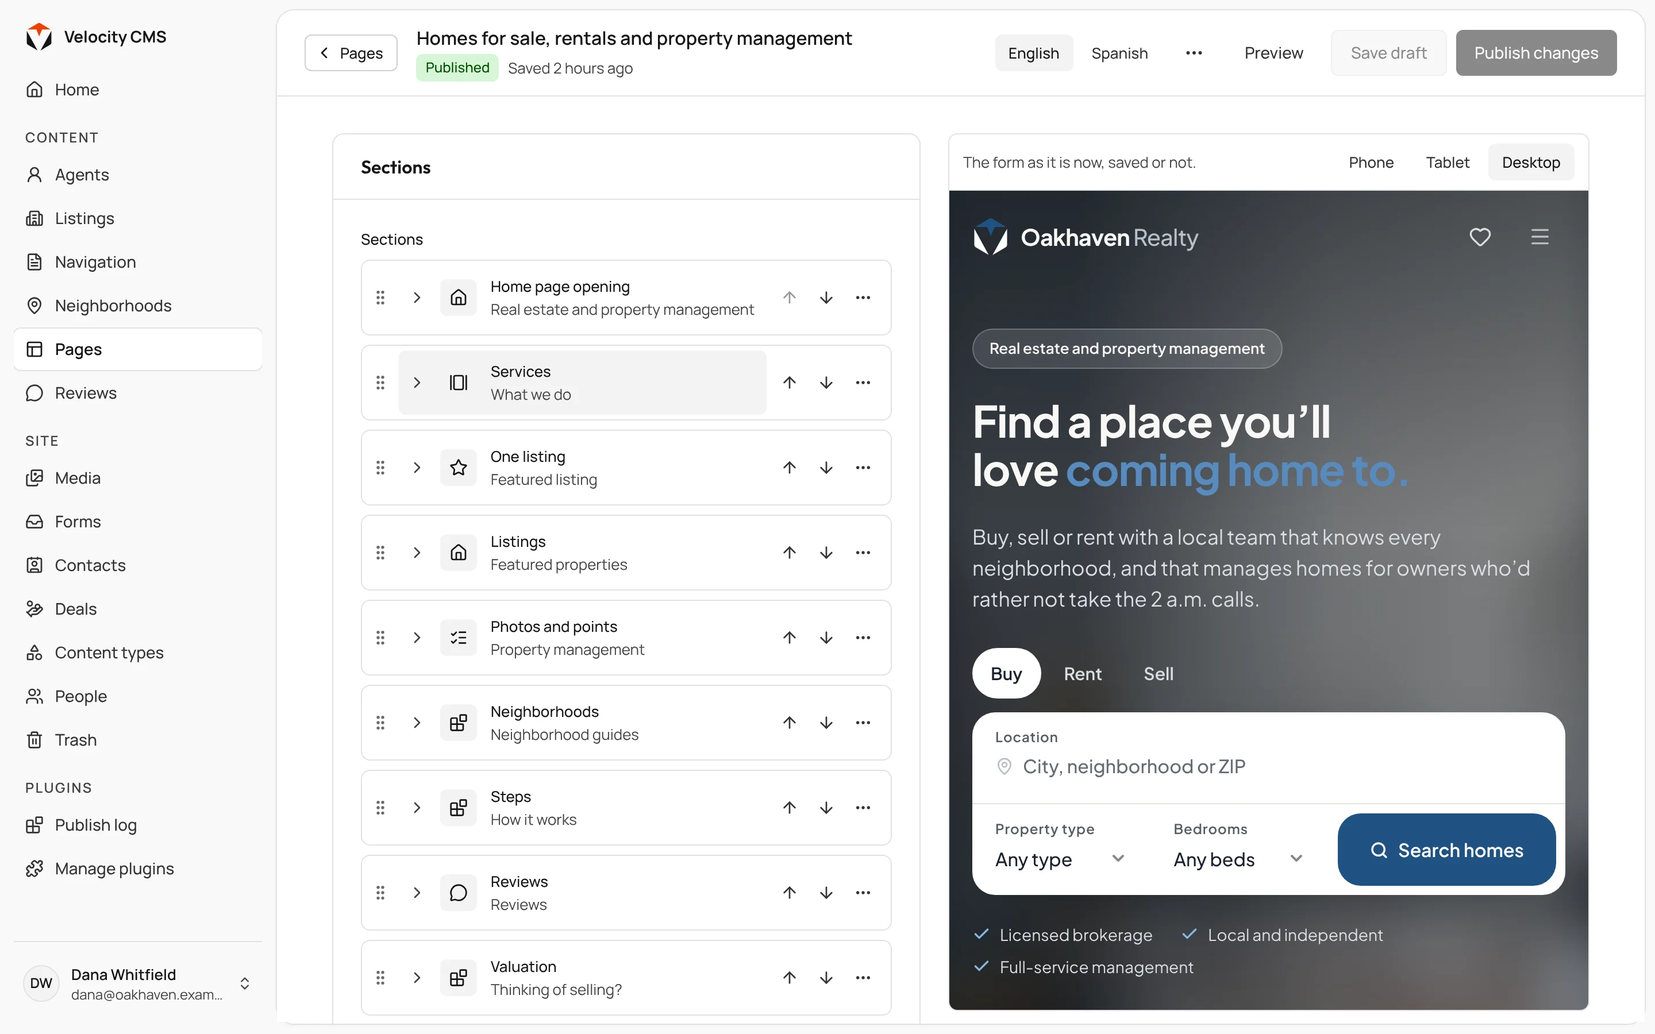
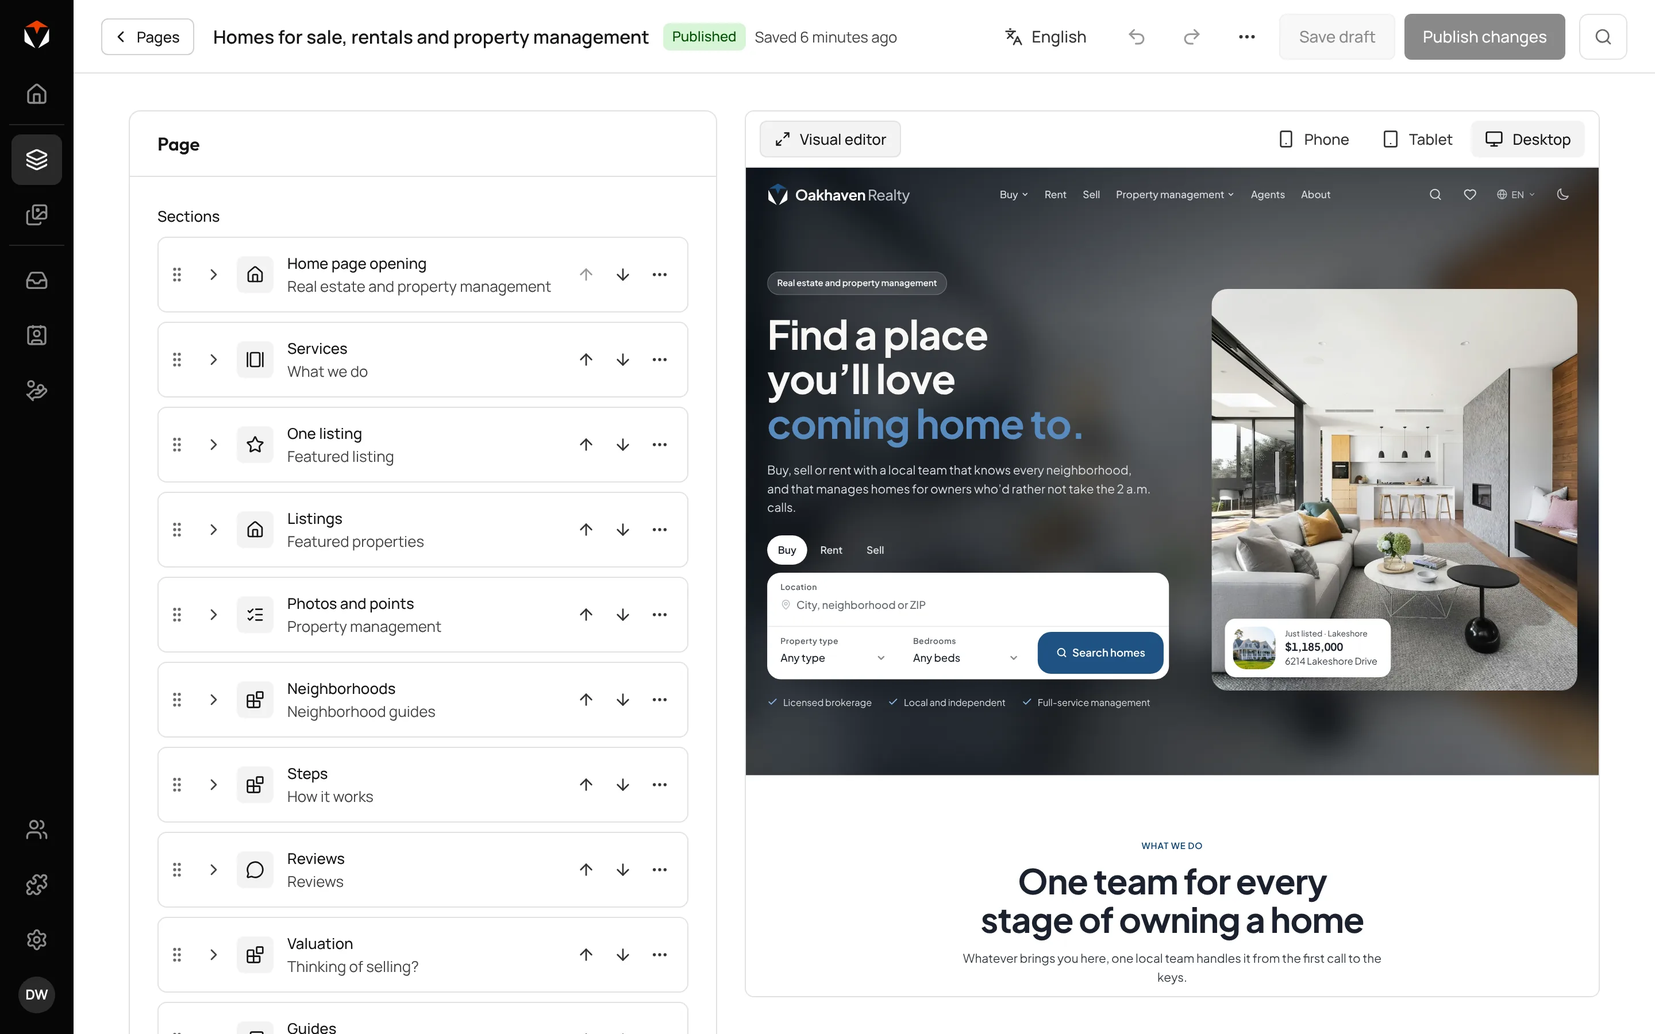
README and AGENTS.md up to date, new screenshots, and the Theme card names fonts (#117)
New README screenshots of today's editor in light and dark, plus Home and the visual editor with the theme. The README says what the visual editor, the theme and the editor do; AGENTS.md names Home's screen, the starter's Theme page, the guide's copy on the docs site, Escape reaching the page and a section opened being brought into view. The Theme card's description names fonts.

Claude-Session: https://claude.ai/code/session_012HxADyL86AXUVxAz2xvfSz

diff --git a/packages/cms-admin/src/messages/en.ts b/packages/cms-admin/src/messages/en.ts
@@ -297,7 +297,7 @@ export const en = {
     chooseFont: 'Choose a font',
     themeHide: 'Hide the theme',
     themeTitle: 'Site theme',
-    themeHelp: (settings: string) => `The colors of the whole site, from the template's own. Try them on this page, then publish them. They are kept in Settings, under ${settings}, and publishing them publishes what is saved there.`,
+    themeHelp: (settings: string) => `The colors and fonts of the whole site, from the template's own. Try them on this page, then publish them. They are kept in Settings, under ${settings}, and publishing them publishes what is saved there.`,
     themePublish: 'Publish theme',
     themeDiscard: 'Discard',
     themePublished: 'Theme published',

diff --git a/AGENTS.md b/AGENTS.md
@@ -61,6 +61,7 @@ TypeScript (strict) · Zod 4 · web-standard `Request`/`Response` · Better Auth
 - `packages/cms-admin/src/screens/Forms`, `screens/Form` — the forms a site has, and one form: what it was sent (`Submissions.tsx`, new first, then handled and spam), its fields (`FormFields.tsx`, drawn by the shared `FieldSetEditor`) and its settings. A form's fields are saved all at once, each with its id, and only kinds a visitor can fill in are offered (`FieldTypeInfo.takesSubmissions`).
 - `packages/cms-admin/src/screens/Contacts`, `screens/Contact` — the people who wrote to the site (a list with a search, adding one by hand), and one contact: details, the timeline of what they sent and the team's notes, export and erase. For owners and editors.
 - `packages/cms-admin/src/screens/Contacts/PipelineBoard.tsx`, `StagesDialog.tsx`, `pipeline.ts` — the contacts as a board by stage (the `Board` pattern: a card is dragged, or moved from its menu), the window the stages are edited in, and how a stage, an owner and a day to follow up are said. `screens/Contact/ContactWork.tsx` sets the three on one contact; `screens/Home/FollowUps.tsx` lists what is due for whoever is signed in.
+- `packages/cms-admin/src/screens/Home` — the first screen: a greeting that says what is waiting (`Welcome`) beside the home page as visitors see it (`SiteWindow`), the bar above it holding only the search; then cards with charts (`BarChart`): how much each kind of content has, submissions a day over two weeks, the inbox and the open deals by stage (`Audience`), recent changes and what is due to follow up (`FollowUps.tsx`).
 - `packages/cms-admin/src/screens/Deals` — every deal as a board by stage with what is open, forecast and won, and the window a deal is added, changed and deleted in (`DealDialog.tsx`). `screens/Contact/ContactDeals.tsx` lists one contact's deals.
 - `packages/cms-admin/src/screens/Deals/deal-subject.tsx`, `screens/EntryEditor/EntryDeals.tsx` — what on the site a deal is about (a kind of content, then one of its entries, by name), and the card on an entry that lists the deals about it.
 - `packages/cms-admin/src/fields/FieldSetEditor.tsx`, `FieldSetDialog.tsx`, `field-set.ts` — a list of simple fields edited as a whole (`FieldSet`): a form's (`screens/Form/FormFields.tsx`) and the custom fields of contacts and deals (`fields/CustomFieldsDialog.tsx`). `fields/custom-values.tsx` fills custom fields in on one contact or deal, with the controls entries use.
@@ -69,7 +70,7 @@ TypeScript (strict) · Zod 4 · web-standard `Request`/`Response` · Better Auth
 - `packages/cms-plugins/` — the plugins that come with the CMS (`catalogue`), each in its own folder. `cms-astro/src/site-plugins.ts` loads them on every site after the site's own, switched off until an owner activates one. `seo/` is the first: `analyse.ts` judges an entry, `plugin.ts` is the server side, `editor.ts` the editor's part. `webhooks/` sends what happens (a form submitted, a contact or a deal changed, a page published) to the addresses an owner lists, signed when a signing secret is saved. `mailchimp/` adds whoever sends a form to a Mailchimp audience: the API key is a secret and the only thing that chooses the host (`mailchimpHost`), someone already in the audience is never updated, and an owner may name the forms and a yes or no field that asks for consent. `slack/` posts to a channel when a form is sent or a contact is made: the webhook address is a secret, only `hooks.slack.com` is posted to (`slackAddress`), and a message names the person only when the owner asks. `hubspot/` copies contacts to HubSpot one way, matched by email, to one fixed address (`HUBSPOT_UPSERT`) with a private app token kept as a secret.
 - `packages/velocity-cms/` — the `npx velocity-cms` command for a site that does not have the CMS yet: `init` installs `@velocity-astro/cms-astro` with the site's package manager, and every command is handed to the CMS the site has. No build and no dependencies.
 - `scripts/version.mjs`, `scripts/next-release.mjs`, `scripts/publish.mjs`, `scripts/github-release.mjs`, `.github/workflows/release-pr.yml`, `release.yml`, `github-release.yml`, `CHANGELOG.md` — a release: every package gets one version and the changelog names it. A change that people who use the CMS would notice adds a line under "Unreleased" in `CHANGELOG.md`; a workflow keeps a pull request, "Release <version>", that files those lines under the next version, and merging it stages that version on npm and makes its GitHub Release. A GitHub Release is written by `scripts/github-release.mjs` (the changelog's section, how to install, the pull requests since the release before; a pre-release when the version has a `-`), and a version tag a person pushes (`v<version>`) gets one by itself (`github-release.yml`); `.github/release.yml` says which pull requests that list leaves out. Run by hand, `release.yml` rehearses unless told to publish. It holds no key: each package on npm trusts this workflow to stage a version, which is public once an owner approves it on npmjs.com.
-- `examples/starter/` — a small site on the CMS that is plain Astro: its model and seed (`cms/`), one component per section, and `npm run check`, which CI runs to prove a site works from an empty database. Keep it small enough to read in one sitting; it is what the README tells people to run.
+- `examples/starter/` — a small site on the CMS that is plain Astro: its model and seed (`cms/`, a Theme page in the settings with a brand color and a headings font that its layout writes as CSS variables), one component per section, and `npm run check`, which CI runs to prove a site works from an empty database. Keep it small enough to read in one sitting; it is what the README tells people to run.
 - `prototypes/` — phase 0 experiments. Scripts here may be rough; packages may not.
 
 ## Rules
@@ -93,7 +94,7 @@ TypeScript (strict) · Zod 4 · web-standard `Request`/`Response` · Better Auth
 - **Which entry a submission is about is the site's word, never the visitor's.** A page says it with a mark signed for that form (`siteForm(Astro, key, { about })`, `aboutMark`), or the server finds the entry whose own page the post came from (`entryAt`). A form that says `startsDeal` then starts a deal about that entry for the sender (`DealService.started`), when the entry's type takes deals and they have no open deal about it; it is worth nothing until someone says, and a failure there never loses the submission.
 - **A draft sent with a preview is drawn and forgotten.** It is read only from a post by the site's own pages with a valid preview token, shown to the one who sent it, never cached and never stored. Whatever reads an entry for a page passes it through `withPreviewDraft`.
 - **Drafts never leak.** Anything that shows working versions must check `isPreview()`, must not be cached, and must not feed search, the sitemap or share images.
-- **A template's content types are described in code and applied with `schema.define`.** It may run on every deploy: a field keeps its id by key, so content stays, and fields the description leaves out are kept. A type also names the field its entries are called by (`titleField`, by key, which is stored as `titlePath`) and the sections the editor shows (`sections`). How to turn an existing Astro site into one on the CMS, step by step, is `docs/converting-a-template.md`: keep it true when a helper a template uses changes.
+- **A template's content types are described in code and applied with `schema.define`.** It may run on every deploy: a field keeps its id by key, so content stays, and fields the description leaves out are kept. A type also names the field its entries are called by (`titleField`, by key, which is stored as `titlePath`) and the sections the editor shows (`sections`). How to turn an existing Astro site into one on the CMS, step by step, is `docs/converting-a-template.md`, and the docs site has the same text (`southwellmedia/velocity-docs`, `src/content/docs/cms/converting-a-template.mdx`): keep both true when a helper a template uses changes.
 - **Field ids are permanent.** Entry data is keyed by field id, never by key. A rename changes the key only. A removed field is marked `deletedAt` and its data is kept.
 - **A plugin gets the public surface and nothing else.** What `setup` receives is `PluginContext`: add to it deliberately, because every addition is a promise to plugin authors (`PLUGIN_API_VERSION`). A plugin writes through the services as its own actor, with only the permissions it declared, and a failure in one is caught, counted and shown under Plugins; it never stops a save or a publish. A plugin's own addresses live under `/api/cms/plugins/<name>/` and keep every API rule; its settings are fields, drawn by the editor with the controls entries use.
 - **In the editor, a plugin gets what it is handed and nothing else.** Its editor file is one prebuilt module with no React of its own. It adds screens, panels on an entry and field controls through `register`, reaches only its own addresses through `client`, and builds from the parts in `plugin-ui.ts`. Each part and each method there is a promise to plugin authors: add on purpose, never remove within one `PLUGIN_API_VERSION`. Whatever a plugin draws is wrapped in `PluginBoundary`, and a file that fails to load leaves the plugin out and the editor running.
@@ -114,10 +115,10 @@ TypeScript (strict) · Zod 4 · web-standard `Request`/`Response` · Better Auth
 - **The site's theme is fields of its settings, tried beside a page.** The Theme card of the visual editor (`screens/EntryEditor/ThemeCard.tsx`, opened from its menu) shows the looks of every page kept in the settings: the fields whose control says they are swatches or a look (`isLook`: a colour, a font). What is chosen is held by the form and sent with the page's own draft (`PreviewDraft.with`, a few entries at most, read and forgotten like the draft itself), so the page shows it and nothing is saved. Publishing saves and publishes the settings entry as its own screen does, with its revision, and is for those who may publish. Don't keep a theme anywhere but those fields.
 - **A width of the preview is a screen's width, never the pane's.** `PagePreview` draws the page at the width its choice stands for (`pagePreviewWidths`) and, where the pane is narrower, shows it smaller and whole. It tells the page how much smaller (`zoom`), and the bridge draws its own tools that much larger (`grows`, `at`), so a button on the page is the size it always is and is pressed where it is seen. Whatever the bridge adds to its layer goes through `grows`.
 - **The editor fits a phone.** Below `md` the `AppShell` shows a bar with a button that opens the menu in a drawer, and spacing, grids and headers fold by themselves (`scales.ts`): a screen never sets a width for a size of window. The bar is one row on every window, as on any phone: the menu, the screen's title (cut to fit) and its state on the same line, its buttons and the search. A screen's main button `collapses` to its icon there and its other buttons are `PageHeader` `secondary`, one menu on a phone; a screen that leads back (an entry's `SaveBar` with `back`) has the way back in the menu's place and no search. What does not fit a phone goes into the screen's one menu (`useNarrow`), never onto a second row or off the edge. A table marks the columns a phone can do without `isSecondary`. Check a change at 390 pixels wide, not only on a desktop.
-- **A page drawn again is where it was.** The page beside the form is asked for anew with every change, and the person must not see that: the bridge keeps which section was in the window and where (`pagehide`), puts the page back by it before anything is shown (the script is the last thing in the page, runs as it is read, and the head holds the first frame for it with `rel="expect"`), and makes a template's turn from page to page take no time. The script's address carries a mark of its version (`EDITOR_PREVIEW_VERSION`) so a browser keeps it. The editor asks for a section to be brought into view only on the first page and when the change itself asked for one (a section moved or added); otherwise it says `still`. Whatever is added to the page's side is checked for this in a real browser, on a slow connection, far down a long page.
+- **A page drawn again is where it was.** The page beside the form is asked for anew with every change, and the person must not see that: the bridge keeps which section was in the window and where (`pagehide`), puts the page back by it before anything is shown (the script is the last thing in the page, runs as it is read, and the head holds the first frame for it with `rel="expect"`), and makes a template's turn from page to page take no time. The script's address carries a mark of its version (`EDITOR_PREVIEW_VERSION`) so a browser keeps it. The editor asks for a section to be brought into view only on the first page and when the change itself asked for one (a section moved or added); otherwise it says `still`. A section opened in the form, again or for the first time, is brought into view (`PageFocus.openedAt`, `PagePreview` `shownAt`) unless its top is already in the upper half of the window. Whatever is added to the page's side is checked for this in a real browser, on a slow connection, far down a long page.
 - **A section may hold sections, and one field answers for all of them.** A block's own `blocks` fields are places inside it (the columns of a row). In the form each is drawn by its own control, `BlocksControl` again, under `PageFocusInside`, which lets it open what is pressed and nothing more. To the page, the `BlocksControl` of the field that holds the page answers for every section however deep: it gathers every list (`gather`, through `FieldControl.sections`), and a button, a swatch, typed words or a drag is done in the list the section is in. A section goes from one place to another only where both take blocks of the same keys, and is held there under that place's own ids (`FieldControl.carried`, `carry.ts`); a move that would lose a value is refused. A copy of a section gives every section inside it a new id (`copyOf`). A template marks a place with `slotMark`; the bridge takes what is inside an inner section as that section's alone (`within`).
 - **One bar on the page, and it stays for the pointer.** Everything the page offers for a section is on that section's one bar: move, copy, remove, add, its swatches, and at its end, in the editor's orange, what can be done to the thing the pointer was last on (a picture, a link, an item of a list), which is outlined in the same orange. Don't float a button of its own beside a thing. What the bar is about stays while the pointer travels (over nothing, over what is no section, across other things) and turns to another thing only when the pointer rests on it or presses it; a page drawn again after a button was pressed has the bar on the same section and item (`again`), so a button can be pressed twice.
-- **A section of the page is moved among names, not across the page.** A page is long and a section tall, so where a dragged one would land cannot be seen on the page. Dragging a section of the page itself by its bar lays the page's sections out by name over the page, one short row each (`openStack`): the held one follows the pointer, a thick line shows where it would land, and letting go says `move`. "Reorder" on the bar opens the same rows to stay: a row is dragged or sent a place earlier or later, and the rows are open again at once on each page drawn from a move, until Done. The rows are the bridge's own layer; the page is not shrunk or changed. A section inside another is still dragged on the page, where its places are.
+- **A section of the page is moved among names, not across the page.** A page is long and a section tall, so where a dragged one would land cannot be seen on the page. Dragging a section of the page itself by its bar lays the page's sections out by name over the page, one short row each (`openStack`): the held one follows the pointer, a thick line shows where it would land, and letting go says `move`. "Reorder" on the bar opens the same rows to stay: a row is dragged or sent a place earlier or later, and the rows are open again at once on each page drawn from a move, until Done. The rows are the bridge's own layer; the page is not shrunk or changed. A section inside another is still dragged on the page, where its places are. Escape closes the rows and drops a dragged section where it was, from the page or from the editor around it: the editor counts each Escape nobody else took (`lib/use-escapes.ts`) and tells the page (`PagePreview` `escapes`, the bridge's `escape`), which takes it as its own.
 - **The bridge draws above the page and changes nothing of it.** What it shows (an outline, later a toolbar) lives in its own layer over the page, styled from script, so a template's markup, classes and layout are never touched and the page's content rules stay strict. The one exception is the element being typed into, which is editable while it is and put back as it was. It stands alone (`fn.toString()`): its argument only, no imports, no helpers from the file. It speaks only to the window that frames it, on this site's own origin, and listens to nothing else. A field is found by a mark the template wrote (`fieldMark`) or, where the section says what it holds (`sectionMark(id, data)`, `data-cms-values`), by the words or the picture it shows: what is found that way is kept in the bridge's own memory, never written on the page, and a template's mark always comes first. A page with no marks still works: marks make it better, never required.
 - **A page is sections of data, never markup.** A section says which block it is by the block's id and holds that block's values by field id; the site receives the block's key and the values by key, and the template's own component draws it. A block's look is a choice among named values, not a free size or colour. A block's picture for the picker (`thumbnail`) is a path on the site and nothing else, since the editor loads it. Blocks are described in code: what a description leaves out is retired or marked removed, never deleted, and sections made from a retired block are kept and left off the site.
 - **A slug is one part of an address unless the type says otherwise.** A type whose address pattern says `[...slug]` (`/[...slug]`) takes slugs of several parts, such as `services/roofing`, so pages can sit under pages; every part is a slug by itself (`isSlugPath`). Nothing else may put a slash in an address. The entry whose slug is `index` is the page at the top of such a pattern: with `/[...slug]`, the home page, at `/` and nowhere else.

diff --git a/README.md b/README.md
@@ -18,18 +18,22 @@ The demo is a real estate site on the CMS, with one click into its editor. Every
 | | |
 |---|---|
 | **Content** | Content types made in a visual builder or described in code. Drafts and published versions, trash, duplicate, history with restore, scheduled publishing, preview links, several languages. |
-| **Pages** | Pages built from sections, with the live page beside the form. Pages under pages, a home page, menus edited in the CMS. |
+| **Pages** | Pages built from sections, with the live page beside the form, or a visual editor that gives the page the window: words typed on the page, sections moved, added and removed there. Pages under pages, a home page, menus edited in the CMS. |
+| **Theme** | A site's colors and fonts set in the editor: a color picker with the template's palette, the template's fonts, tried on the page before they are published. |
 | **Media** | An image library with uploads, kept in a folder or any S3-compatible bucket. Each upload is made lighter and kept as WebP. |
 | **Forms** | A form builder, forms as page sections, spam marking, an optional Cloudflare Turnstile check, notices by email, export and erase of what a person sent. |
 | **CRM** | Contacts with a timeline and notes, a pipeline board, owners and follow-up days, deals with a forecast, custom fields, CSV import. |
 | **Plugins** | A plugin API with settings, secrets and retried background work. Five come with it, off until an owner switches one on: SEO, Webhooks, and the experimental Mailchimp, Slack and HubSpot. |
 | **People** | Sign-in by email link or passkey, no passwords. Owner, editor and author roles. Invitations. |
+| **Editor** | A home that says what is waiting, one bar at the top of every screen, search with Ctrl or Command and K, light and dark, and a layout that fits a phone. |
 | **Site** | Live pages from a cache that a publish clears. Search and the sitemap follow. A fully static build is an option. |
 
 ## A look around
 
 | | |
 |---|---|
+| <picture> <source media="(prefers-color-scheme: dark)" srcset="docs/screenshots/home-dark.webp"> <img src="docs/screenshots/home-light.webp" alt="Home: a greeting that says what is waiting, the home page beside it, and cards with charts"></picture> | <img src="docs/screenshots/visual-editor.webp" alt="The visual editor: the page's sections by name, the page, and the site's theme with its brand color and fonts"> |
+| **Home.** What is waiting, the home page as visitors see it, and how the content, the forms and the deals stand. | **Visual editor.** The page has the window: type on it, move its sections, and try the site's colors and fonts before publishing. |
 | <picture> <source media="(prefers-color-scheme: dark)" srcset="docs/screenshots/contacts-board-dark.webp"> <img src="docs/screenshots/contacts-board-light.webp" alt="Contacts as a board by stage"></picture> | <picture> <source media="(prefers-color-scheme: dark)" srcset="docs/screenshots/deals-dark.webp"> <img src="docs/screenshots/deals-light.webp" alt="Deals by stage with what is open, forecast and won"></picture> |
 | **Contacts.** Everyone who wrote in through a form, by stage, with an owner and a day to follow up. | **Deals.** What each contact may buy, added up by stage and by how likely it is. |
 | <picture> <source media="(prefers-color-scheme: dark)" srcset="docs/screenshots/form-fields-dark.webp"> <img src="docs/screenshots/form-fields-light.webp" alt="A form and its fields"></picture> | <picture> <source media="(prefers-color-scheme: dark)" srcset="docs/screenshots/content-type-dark.webp"> <img src="docs/screenshots/content-type-light.webp" alt="A content type and its fields in the builder"></picture> |
